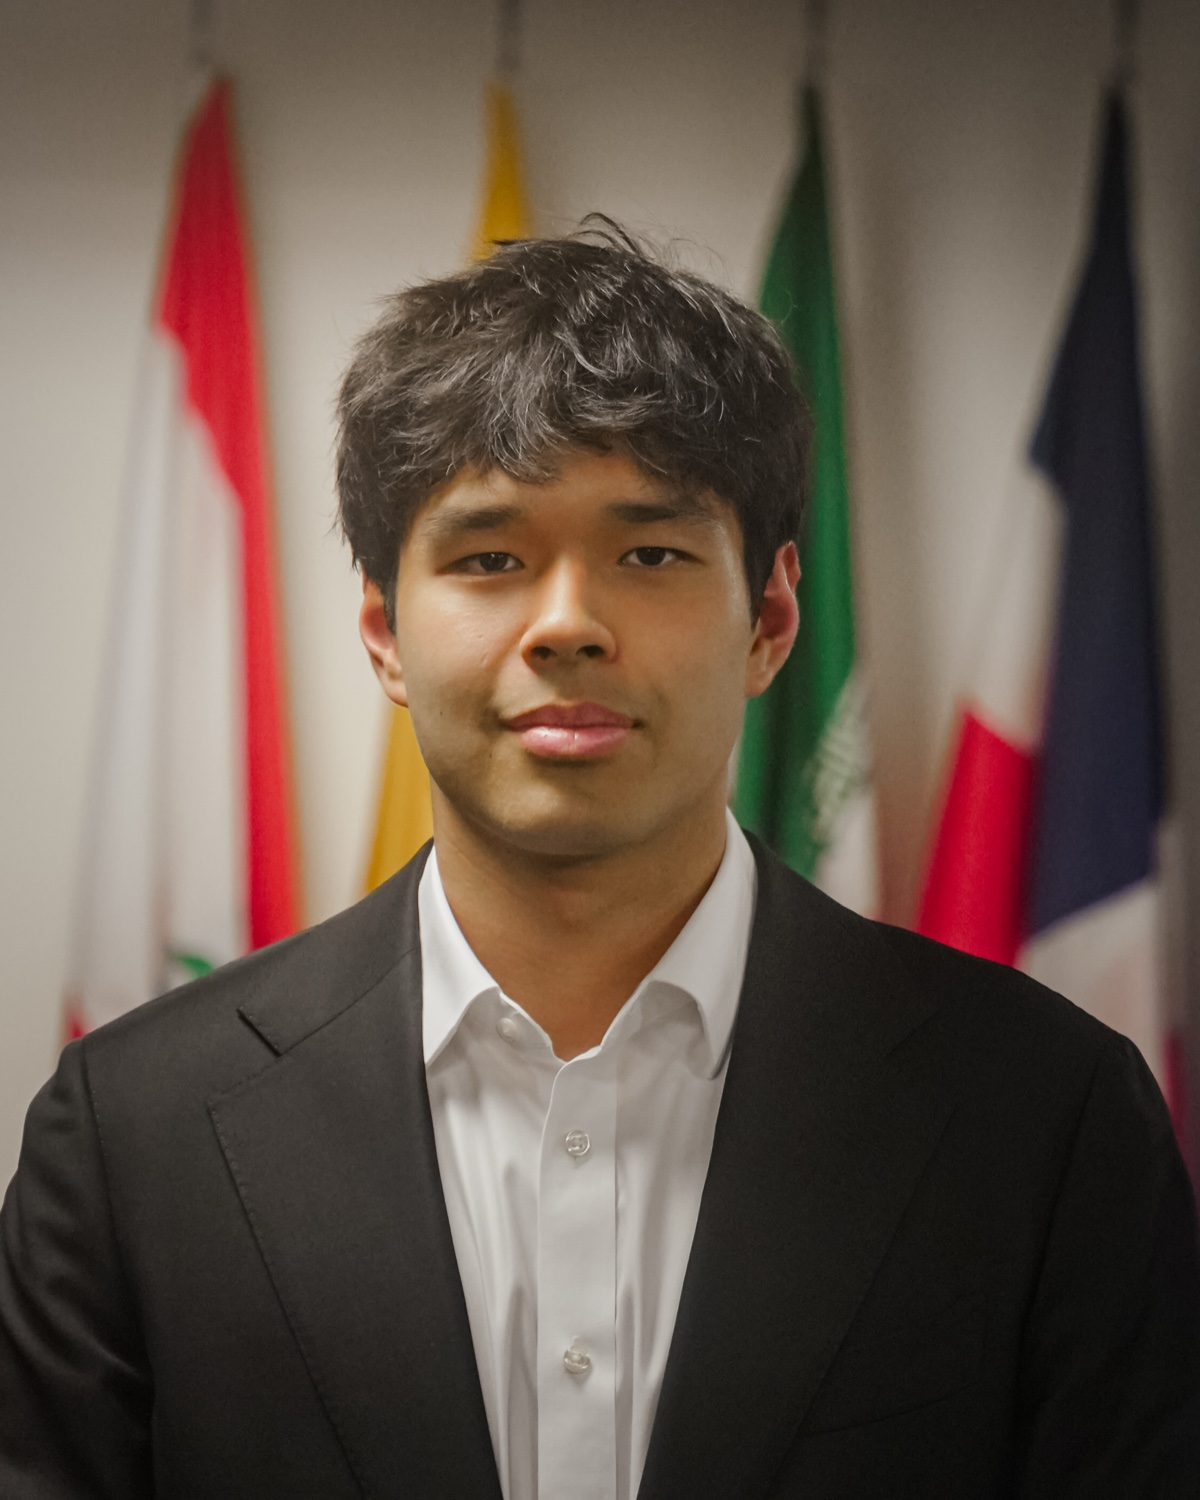
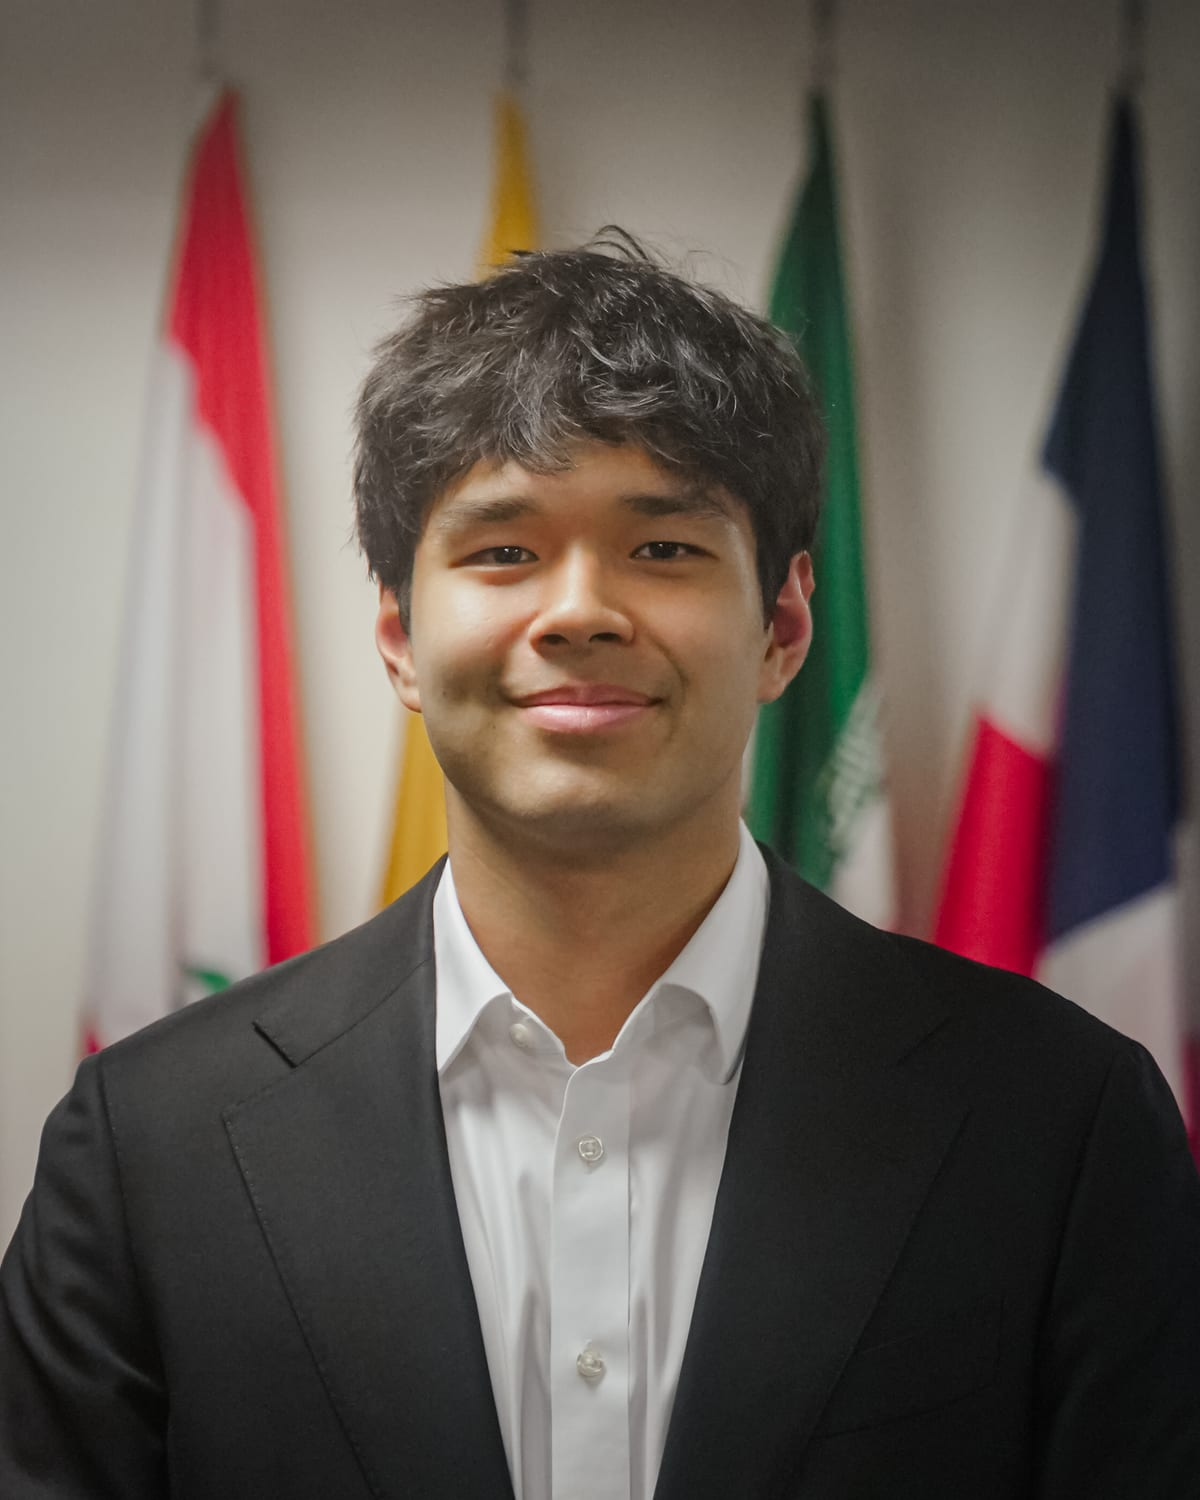
Step 14: v3 feedback (copy, faded photo bands, no credits, static placements, week track, sticky deck summary, Max headshot)

Changed region(s): [[0.0, 0.0307, 1.0, 1.0]]

diff --git a/src/styles/global.css b/src/styles/global.css
@@ -162,6 +162,9 @@ a:hover { color: var(--ink); }
 .page-head { padding-block: clamp(4.5rem, 12vw, 9rem) clamp(3.5rem, 8vw, 6rem); border-bottom: 1px solid var(--hairline); }
 .page-head h1 { max-width: 18ch; margin-bottom: 1.75rem; }
 .page-head + .section { border-top: 0; }
+.page-head:has(+ .photo-band) { border-bottom: 0; }
+/* Faded bands blend straight into the next section: no hairline between them. */
+.photo-band + .section, .section:has(+ .photo-band) { border-top: 0; border-bottom: 0; }
 
 /* Two-column split on a 12-col grid: heading left, content right. */
 .split { display: grid; gap: var(--gap) clamp(2rem, 6vw, 6rem); grid-template-columns: 1fr; align-items: start; }
@@ -198,33 +201,39 @@ html.lenis, html.lenis body { height: auto; }
 /* Flat ink scrim for text legibility over the Step 5 photograph (no gradient). */
 .hero-media::after { content: ''; position: absolute; inset: 0; background: rgba(14, 26, 43, .5); }
 /* In flow (not absolute) so it can never overlap the fixed header or the hero text. */
-.hero-credit { margin: clamp(2.5rem, 6vw, 4.5rem) 0 0; text-align: right; font-size: .6875rem; color: var(--on-dark-2); }
-.hero-credit a { color: inherit; }
-.hero-content { padding-block: calc(var(--header-h) + 4rem) .85rem; }
+.hero-content { padding-block: calc(var(--header-h) + 4rem) clamp(3.5rem, 8vw, 5.5rem); }
 .hero h1 { max-width: 17ch; color: var(--ivory); }
 .hero-sub { font-size: var(--step-1); max-width: 36rem; margin-top: 1.75rem; color: var(--on-dark-2); }
 
-/* ---------- Photo band (Step 5) ---------- */
-.photo-band { margin: 0; background: var(--ink); }
+/* ---------- Photo band (Step 5; faded edges 2026-11-26) ---------- */
+/* The image fades into the neighbouring sections: a mask on the frame, over a
+   gradient between the two section backgrounds (--band-above / --band-below). */
+.photo-band { margin: 0; background: linear-gradient(var(--band-above, var(--ivory)), var(--band-below, var(--ivory))); }
 .photo-band-frame { position: relative; overflow: hidden; }
 .photo-band picture { display: block; }
 .photo-band img { display: block; width: 100%; aspect-ratio: 4 / 3; object-fit: cover; }
 @media (min-width: 700px) { .photo-band img { aspect-ratio: 16 / 7; max-height: 44rem; } }
+.photo-band-fade-both .photo-band-frame { -webkit-mask-image: linear-gradient(to bottom, transparent, #000 28%, #000 72%, transparent); mask-image: linear-gradient(to bottom, transparent, #000 28%, #000 72%, transparent); }
+.photo-band-fade-top .photo-band-frame { -webkit-mask-image: linear-gradient(to bottom, transparent, #000 38%); mask-image: linear-gradient(to bottom, transparent, #000 38%); }
+/* Shorter bands */
+.photo-band-short img { aspect-ratio: 4 / 3; }
+.photo-band-thin img { aspect-ratio: 2 / 1; }
+@media (min-width: 700px) {
+  .photo-band-short img { aspect-ratio: 16 / 5.5; max-height: 34rem; }
+  .photo-band-thin img { aspect-ratio: 16 / 4.5; max-height: 28rem; }
+}
 /* Full-bleed image with overlaid text: flat ink scrim (no gradient), text bottom-left. */
 .photo-band-overlay .photo-band-frame::after { content: ''; position: absolute; inset: 0; background: rgba(14, 26, 43, .55); }
 .photo-band-text { position: absolute; z-index: 1; left: 0; right: 0; bottom: clamp(2rem, 6vw, 4.5rem); color: var(--ivory); }
 .photo-band-overlay .eyebrow { color: var(--ivory); }
 .photo-band-overlay .eyebrow::before { background: var(--tufts-blue); }
 .photo-band-statement { margin: 0; max-width: 20ch; font-family: var(--font-display); font-size: var(--step-3); font-weight: 300; line-height: 1.12; letter-spacing: -.015em; }
-@media (max-width: 699px) { .photo-band-overlay img { aspect-ratio: 4 / 5; } }
+@media (max-width: 699px) { .photo-band-overlay img { aspect-ratio: 4 / 5; } .photo-band-overlay.photo-band-short img { aspect-ratio: 1 / 1; } }
 
 /* ---------- Statement band (home) ---------- */
 .statement-band { padding-block: clamp(4.5rem, 12vw, 9.5rem); border-bottom: 1px solid var(--hairline); }
 .statement { margin: 0; max-width: 24ch; font-family: var(--font-display); font-size: clamp(2.1rem, 1.2rem + 3.8vw, 4.6rem); font-weight: 300; line-height: 1.1; letter-spacing: -.02em; }
 .statement-band + .section { border-top: 0; }
-.photo-band figcaption { padding-block: .7rem; text-align: right; }
-.photo-credit { font-size: .6875rem; letter-spacing: .01em; color: var(--on-dark-2); }
-.photo-credit a { color: inherit; text-underline-offset: 2px; }
 .photo-band + .section { border-top: 0; }
 
 /* ---------- Stats ---------- */
@@ -258,7 +267,6 @@ html.lenis, html.lenis body { height: auto; }
 .client-logo { flex: none; display: flex; align-items: center; justify-content: center; height: 7rem; padding-inline: clamp(1.75rem, 4vw, 3.5rem); }
 .client-logo img { width: auto; max-width: 13rem; object-fit: contain; filter: grayscale(1); opacity: .8; }
 .client-wordmark { font-family: var(--font-display); font-size: var(--step-2); line-height: 1; white-space: nowrap; color: var(--ink); }
-.client-footnote { margin-top: 1rem; font-size: var(--step--1); color: var(--text-2); }
 @keyframes client-scroll { to { transform: translateX(-50%); } }
 
 /* ---------- Services (pillars) ---------- */
@@ -272,6 +280,14 @@ html.lenis, html.lenis body { height: auto; }
 .process-mini { list-style: none; margin: 0; padding: 0; counter-reset: step; border-top: 1px solid var(--ink); }
 .process-mini li { counter-increment: step; display: flex; align-items: baseline; gap: 1.5rem; padding: 1.1rem 0; border-bottom: 1px solid var(--hairline); font-family: var(--font-display); font-size: var(--step-2); }
 .process-mini li::before { content: counter(step, decimal-leading-zero); font-family: var(--font-body); font-size: var(--step--1); font-weight: 550; letter-spacing: .12em; color: var(--text-2); min-width: 1.75rem; }
+/* Steps that repeat every week: a bracket on the right with a label (home). */
+.process-mini-wrap { position: relative; }
+.process-mini-loop { position: absolute; right: 0; margin: 0; top: calc((var(--from) - 1) / var(--n) * 100%); height: calc((var(--to) - var(--from) + 1) / var(--n) * 100%); display: flex; align-items: center; padding-right: 1.1rem; pointer-events: none; }
+.process-mini-loop::after { content: ''; position: absolute; right: 0; top: .9rem; bottom: .9rem; width: .6rem; border: 1.5px solid var(--jumbo-blue); border-left: 0; }
+.process-mini-loop > span { display: inline-flex; align-items: center; gap: .4rem; padding: .3rem .6rem; background: var(--jumbo-blue); color: var(--ivory); font-size: .6875rem; font-weight: 550; letter-spacing: .1em; text-transform: uppercase; white-space: nowrap; }
+.process-mini-loop > span::before { content: '\21BB'; font-size: .95rem; letter-spacing: 0; line-height: 1; }
+.pm-short { display: none; }
+@media (max-width: 559px) { .pm-long { display: none; } .pm-short { display: inline; } }
 
 
 .project-team { margin-top: clamp(3.5rem, 7vw, 5rem); padding-top: 2rem; border-top: 1px solid var(--hairline); display: grid; gap: 1.5rem; }
@@ -358,7 +374,11 @@ html.lenis, html.lenis body { height: auto; }
 .deck-thumbs a[aria-current] span { background: var(--jumbo-blue); }
 
 .deck-summary { display: grid; gap: 2rem clamp(2rem, 5vw, 4rem); margin-top: clamp(2rem, 5vw, 3rem); }
-@media (min-width: 900px) { .deck-summary { grid-template-columns: 5fr 7fr; } }
+@media (min-width: 900px) {
+  .deck-summary { grid-template-columns: 5fr 7fr; align-items: start; }
+  /* 'About this deck' holds still while the section list scrolls past it. */
+  .deck-summary > div:first-child { position: sticky; top: calc(var(--header-h) + 2rem); }
+}
 .deck-summary h4 { margin: 0 0 1rem; font-family: var(--font-display); font-size: var(--step-2); font-weight: 450; }
 .deck-summary p { color: var(--text-2); }
 .deck-sections { list-style: none; margin: 0; padding: 0; border-top: 1px solid var(--ink); counter-reset: sec; }
@@ -395,6 +415,8 @@ html.deck-lock { overflow: hidden; }
 .placement-col h3 { font-family: var(--font-body); font-size: var(--step--1); font-weight: 550; letter-spacing: .14em; text-transform: uppercase; color: var(--text-2); padding-bottom: 1rem; border-bottom: 1px solid var(--ink); }
 .placement-col ul { list-style: none; padding: 0; margin: 0; }
 .placement-col li { padding: .8rem 0; border-bottom: 1px solid var(--hairline); font-family: var(--font-display); font-size: 1.2rem; }
+.placements-featured .placement-col li { padding: 1rem 0; font-size: clamp(1.35rem, 1.1rem + 1vw, 1.9rem); font-weight: 300; line-height: 1.2; }
+.placements-band .text-link { display: inline-block; margin-top: 2rem; }
 
 /* ---------- People ---------- */
 .people { display: grid; gap: 3rem var(--gap); grid-template-columns: repeat(auto-fill, minmax(min(100%, 14rem), 1fr)); margin-top: clamp(2rem, 5vw, 3rem); }
@@ -429,19 +451,14 @@ html.deck-lock { overflow: hidden; }
 .role-desc { margin: .9rem 0 0; max-width: 40rem; color: var(--text-2); }
 
 /* ---------- About: rebrand FAQ, group photo ---------- */
-.faq { margin-top: 2rem; border-top: 1px solid var(--ink); }
-.faq details { border-bottom: 1px solid var(--hairline); }
-.faq summary { display: flex; justify-content: space-between; gap: 1.5rem; padding: 1.1rem 0; cursor: pointer; list-style: none; font-family: var(--font-display); font-size: 1.2rem; }
-.faq summary::-webkit-details-marker { display: none; }
-.faq summary::after { content: '+'; flex: none; font-family: var(--font-body); color: var(--text-2); transition: transform .25s var(--ease); }
-.faq details[open] summary::after { transform: rotate(45deg); }
-.faq details p { margin: 0 0 1.25rem; color: var(--text-2); max-width: 40rem; }
+.group-photos { display: grid; gap: var(--gap); margin-top: clamp(2rem, 4vw, 3rem); }
+@media (min-width: 760px) { .group-photos { grid-template-columns: 1fr 1fr; } }
 .group-photo { margin: 0; }
-.group-photo img, .group-photo-slot { display: block; width: 100%; aspect-ratio: 16 / 7; object-fit: cover; }
+.group-photo img, .group-photo-slot { display: block; width: 100%; height: auto; aspect-ratio: 3 / 2; object-fit: cover; }
 .group-photo-slot { display: grid; place-items: center; background: var(--candle-white); border: 1px dashed var(--hairline); }
 .group-photo-slot span { font-size: var(--step--1); font-weight: 550; letter-spacing: .14em; text-transform: uppercase; color: var(--text-2); }
 .group-photo figcaption { margin-top: .75rem; font-size: var(--step--1); color: var(--text-2); }
-@media (max-width: 560px) { .group-photo img, .group-photo-slot { aspect-ratio: 4 / 3; } }
+.group-photo figcaption strong { color: var(--ink); font-weight: 550; letter-spacing: .1em; text-transform: uppercase; }
 .count { color: var(--text-2); font-family: var(--font-body); font-size: .9rem; font-weight: 400; letter-spacing: 0; }
 
 /* ---------- Join ---------- */
@@ -493,6 +510,8 @@ html.deck-lock { overflow: hidden; }
 .process-step .tl-node { left: -2.25rem; top: .3rem; }
 .process-num { display: block; margin-bottom: .75rem; font-size: var(--step--1); font-weight: 550; letter-spacing: .12em; color: var(--text-2); }
 .process-step h3 { margin-bottom: .6rem; }
+.process-weekly { display: inline-flex; align-items: center; gap: .3rem; margin-left: .75rem; padding: .15rem .45rem; background: var(--jumbo-blue); color: var(--ivory); font-size: .625rem; letter-spacing: .1em; text-transform: uppercase; vertical-align: .1em; }
+.process-weekly::before { content: '\21BB'; font-size: .85rem; letter-spacing: 0; line-height: 1; }
 .process-step p { font-size: .9375rem; color: var(--text-2); margin: 0; }
 @media (min-width: 1000px) {
   .process { padding: 2.5rem 0 0; grid-template-columns: repeat(var(--n), 1fr); gap: var(--gap); }
@@ -512,9 +531,12 @@ html.deck-lock { overflow: hidden; }
 @media (min-width: 900px) {
   .week-loop-note { display: none; }
   .week-track { display: block; position: relative; margin: clamp(2.5rem, 5vw, 4rem) 1.25rem 3rem; }
-  .week-marks { position: relative; height: 2.75rem; }
-  .week-mark { position: absolute; bottom: .9rem; transform: translateX(-50%); white-space: nowrap; font-family: var(--font-display); font-size: var(--step-1); }
-  .week-mark.is-point { transform: translateX(-.4rem); }
+  /* Two label rows so labels never collide: meetings (points) on the upper row,
+     stretches on the lower; a thin stem ties each meeting label to its node. */
+  .week-marks { position: relative; height: 5.5rem; }
+  .week-mark { position: absolute; bottom: .9rem; transform: translateX(-50%); white-space: nowrap; font-family: var(--font-display); font-size: var(--step-1); padding: .2rem .55rem; transition: color .3s var(--ease), background-color .3s var(--ease); }
+  .week-mark.is-point { bottom: 3.3rem; transform: translateX(calc(-.55rem - 5px)); }
+  .week-mark.is-point::after { content: ''; position: absolute; left: calc(.55rem + 5px); top: 100%; width: 1px; height: 2.4rem; background: var(--hairline); }
   .week-mark .tl-num { display: inline; margin-right: .4rem; font-family: var(--font-body); }
   .week-line { position: relative; height: 11px; }
   .week-line .tl-rail { position: absolute; left: 0; right: 0; top: 5px; height: 1px; background: var(--hairline); }
@@ -530,13 +552,18 @@ html.deck-lock { overflow: hidden; }
   .week-loop::before, .tl-anim .week-loop.is-lit::before { border-bottom-color: var(--ink); }
   .tl-anim .week-loop:not(.is-lit) { border-color: var(--hairline); }
   .tl-anim .week-loop:not(.is-lit)::before { border-bottom-color: var(--hairline); }
-  .tl-anim .week-mark.is-current { color: var(--jumbo-blue); }
+  .tl-anim .week-mark.is-current { background: var(--jumbo-blue); color: var(--ivory); }
+  .tl-anim .week-mark.is-current .tl-num { color: var(--on-dark-2); }
+  .tl-anim .week-mark:not(.is-lit) { color: var(--text-2); }
   /* cards: a plain 4-column row under the track */
   .week-cards { padding: 0; grid-template-columns: repeat(var(--n), 1fr); }
   .week-cards::before, .week-cards::after, .week-cards > .tl-item > .tl-node { display: none; }
-  .week-cards > .tl-item { border-top: 1px solid var(--ink); padding: 1.25rem 1rem 0 0; transition: border-color .35s var(--ease); }
+  .week-cards { gap: .75rem; }
+  .week-cards > .tl-item { border-top: 3px solid var(--ink); padding: 1.25rem 1.1rem 1.4rem; background: transparent; transition: border-color .35s var(--ease), background-color .35s var(--ease), box-shadow .35s var(--ease), opacity .35s var(--ease); }
   .tl-anim .week-cards > .tl-item:not(.is-lit) { border-top-color: var(--hairline); }
-  .tl-anim .week-cards > .tl-item.is-current { border-top-color: var(--jumbo-blue); box-shadow: inset 0 2px 0 var(--jumbo-blue); }
+  /* The current phase is a raised white card with a blue top bar. */
+  .tl-anim .week-cards > .tl-item.is-current { opacity: 1; border-top-color: var(--jumbo-blue); background: #fff; box-shadow: 0 10px 30px -12px rgba(14, 26, 43, .28); }
+  .tl-anim .week-cards > .tl-item.is-current .tl-num, .tl-anim .week-cards > .tl-item.is-current .tl-label { color: var(--jumbo-blue); }
 }
 @media (prefers-reduced-motion: reduce) { .tl-item, .tl-node, .week-loop, .week-loop::before { transition: none; } }
 

diff --git a/PROGRESS.md b/PROGRESS.md
@@ -53,7 +53,7 @@ Live URL: https://cooperkole.github.io/tcrg-website/ (preview; custom domain not
 - [ ] Total projects completed (years X) (stats.json; hidden while TBD)
 - [ ] Placements: no entrepreneurship entries, so intro names banking/consulting/investing only
 - [ ] Chemicals scope text (placeholder until supplied)
-- [ ] Group photo for About (team.json groupPhotos[0].photo; labeled placeholder tile shows until set)
+- [ ] Group 1 + Group 2 project-group photos for About (put files in src/assets/group-photos/, set team.json groupPhotos[].photo; labeled placeholders show until set)
 - [ ] PDF download of sample deck? (default: no; none shipped. If added, strip metadata first: PDF Author field = a member's name)
 - [ ] Testimonial (hidden until supplied)
 - [ ] Official Tufts campus photos (ask Tufts Communications): only Ballou Hall (Commons, snowy phone shot) in use; Tisch roof + Boston-from-hilltop have no usable image
@@ -99,6 +99,14 @@ Live URL: https://cooperkole.github.io/tcrg-website/ (preview; custom domain not
 - Reduced motion: checked with Chrome --force-prefers-reduced-motion at 768/1440: all content visible and static, timelines drawn and lit, motion chunk not imported (Base.astro gate)
 - Deck viewer keyboard: Tab into stage, arrows/PageUp/PageDown/Home/End, +/-/0 zoom, Tab through controls, thumbnails, Escape closes overlay with focus back on the stage, ?slide=N updates. Native full screen not testable in the app's browser pane (request never settles there)
 - Not tested: real iOS Safari (viewer pinch/pseudo full screen, Lenis off on touch). Test on an iPhone after the domain is live, or install Xcode for the Simulator
+
+## Step 14: Cooper's v3 feedback (2026-11-26)
+- Photo credits removed site-wide (photographers consented to no credit; CREDITS.md kept as the record). PhotoBand now fades into neighbouring sections (mask + gradient between --band-above/--band-below; props fade both|top|none, size default|short|thin, above/below ivory|alt)
+- Home: new hero copy; statement "actionable insights"; anonymous-client footnote removed; "How it works" brackets steps 02-04 as repeating weekly (timelines.engagement.repeatsWeekly; Work shows a Weekly tag); Expert insights band shorter, fades from top; "Where members go" = the 9 featured placements, static (no pinned horizontal scroll)
+- Work: senior advisors 2-3; "Three recent projects."; deck summary: "About this deck" is sticky beside the section list (>=900px)
+- About: FAQ removed (site.json faq deleted); Ballou band thin; two group-photo slots (Group 1/2) side by side
+- Join: week-track labels in two rows (meetings above, stretches below) so they never overlap; current phase = raised white card + blue top bar, current label = blue pill
+- Max Nielsen headshot replaced (HEADSHOTS/New Max N-2.jpg)
 
 ## Archive
 - Steps 0-7 (2026-11-25): plan, Astro 7 repo, content, pages, design system, Commons photography, SEO (canonical/OG/JSON-LD/sitemap), GitHub Pages deploy (preview at /tcrg-website/). Cooper does DNS per DEPLOY.md; Wix untouched
